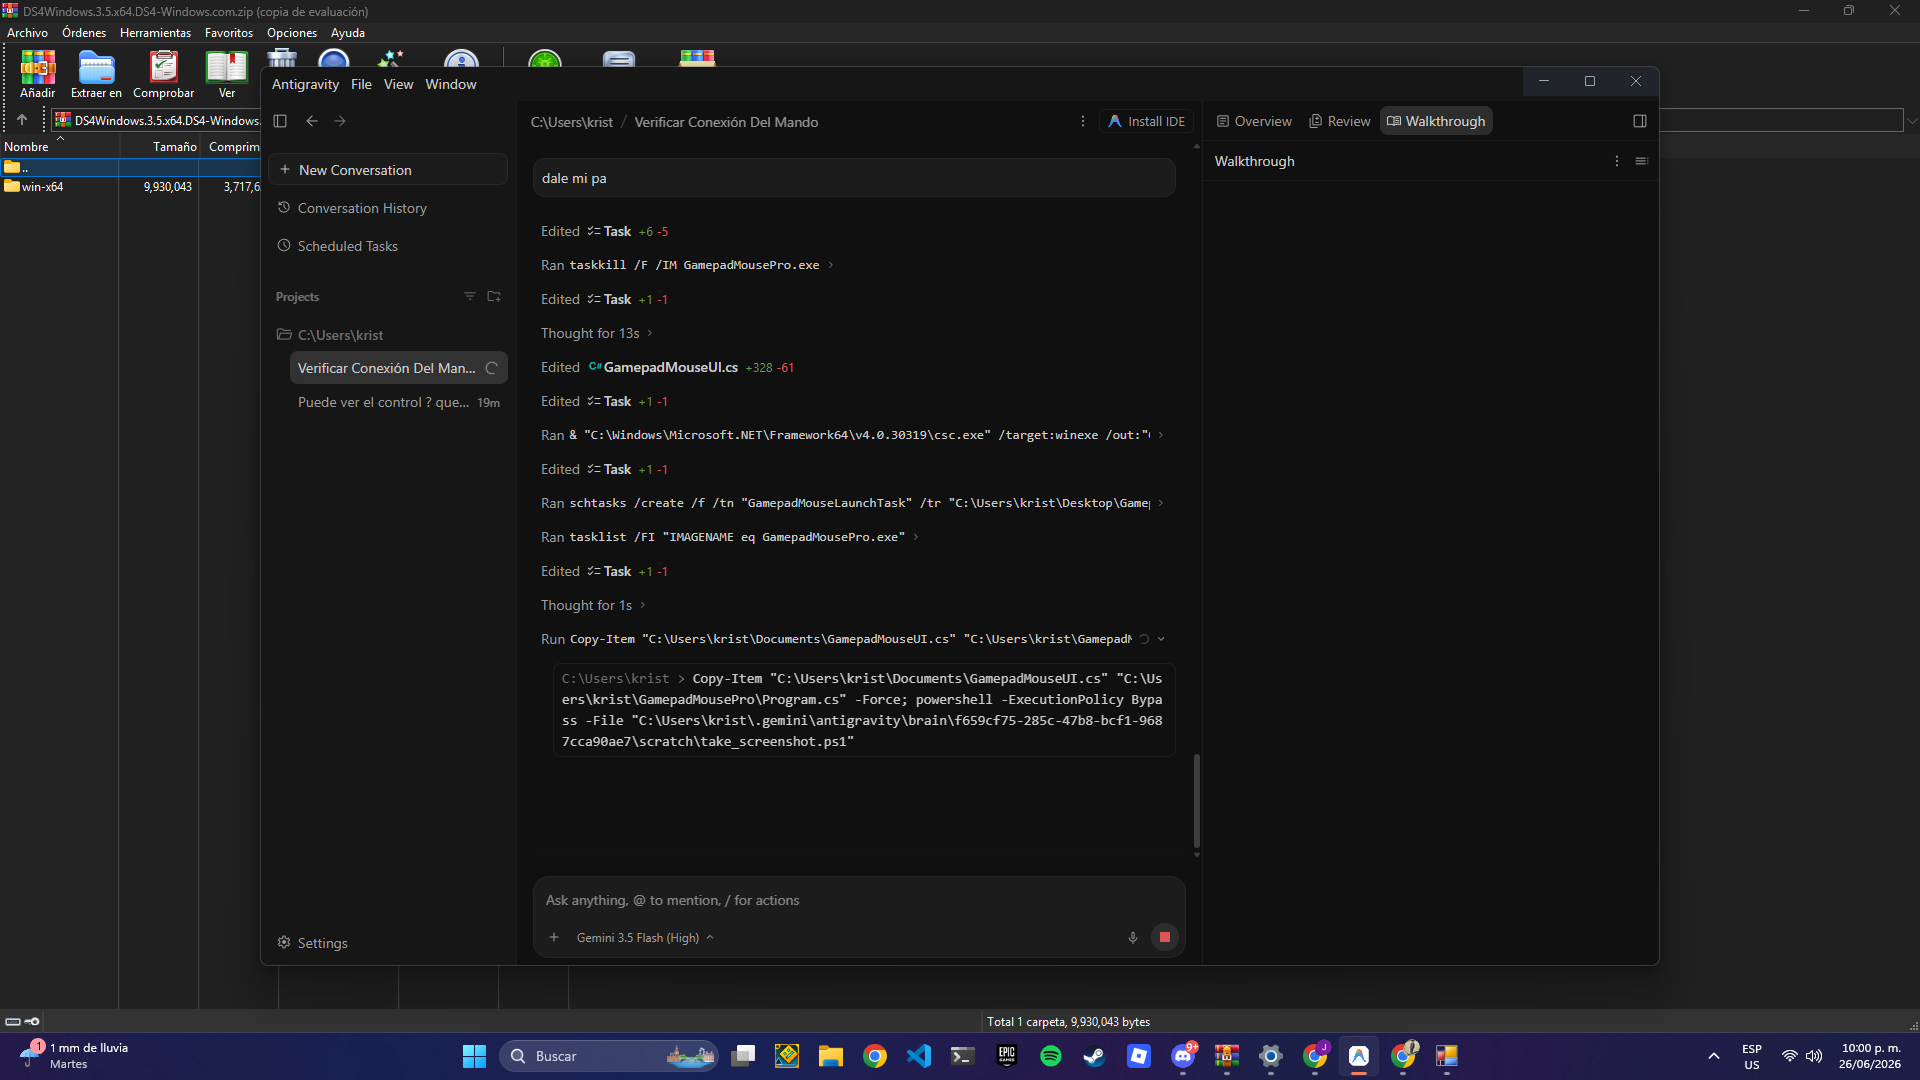
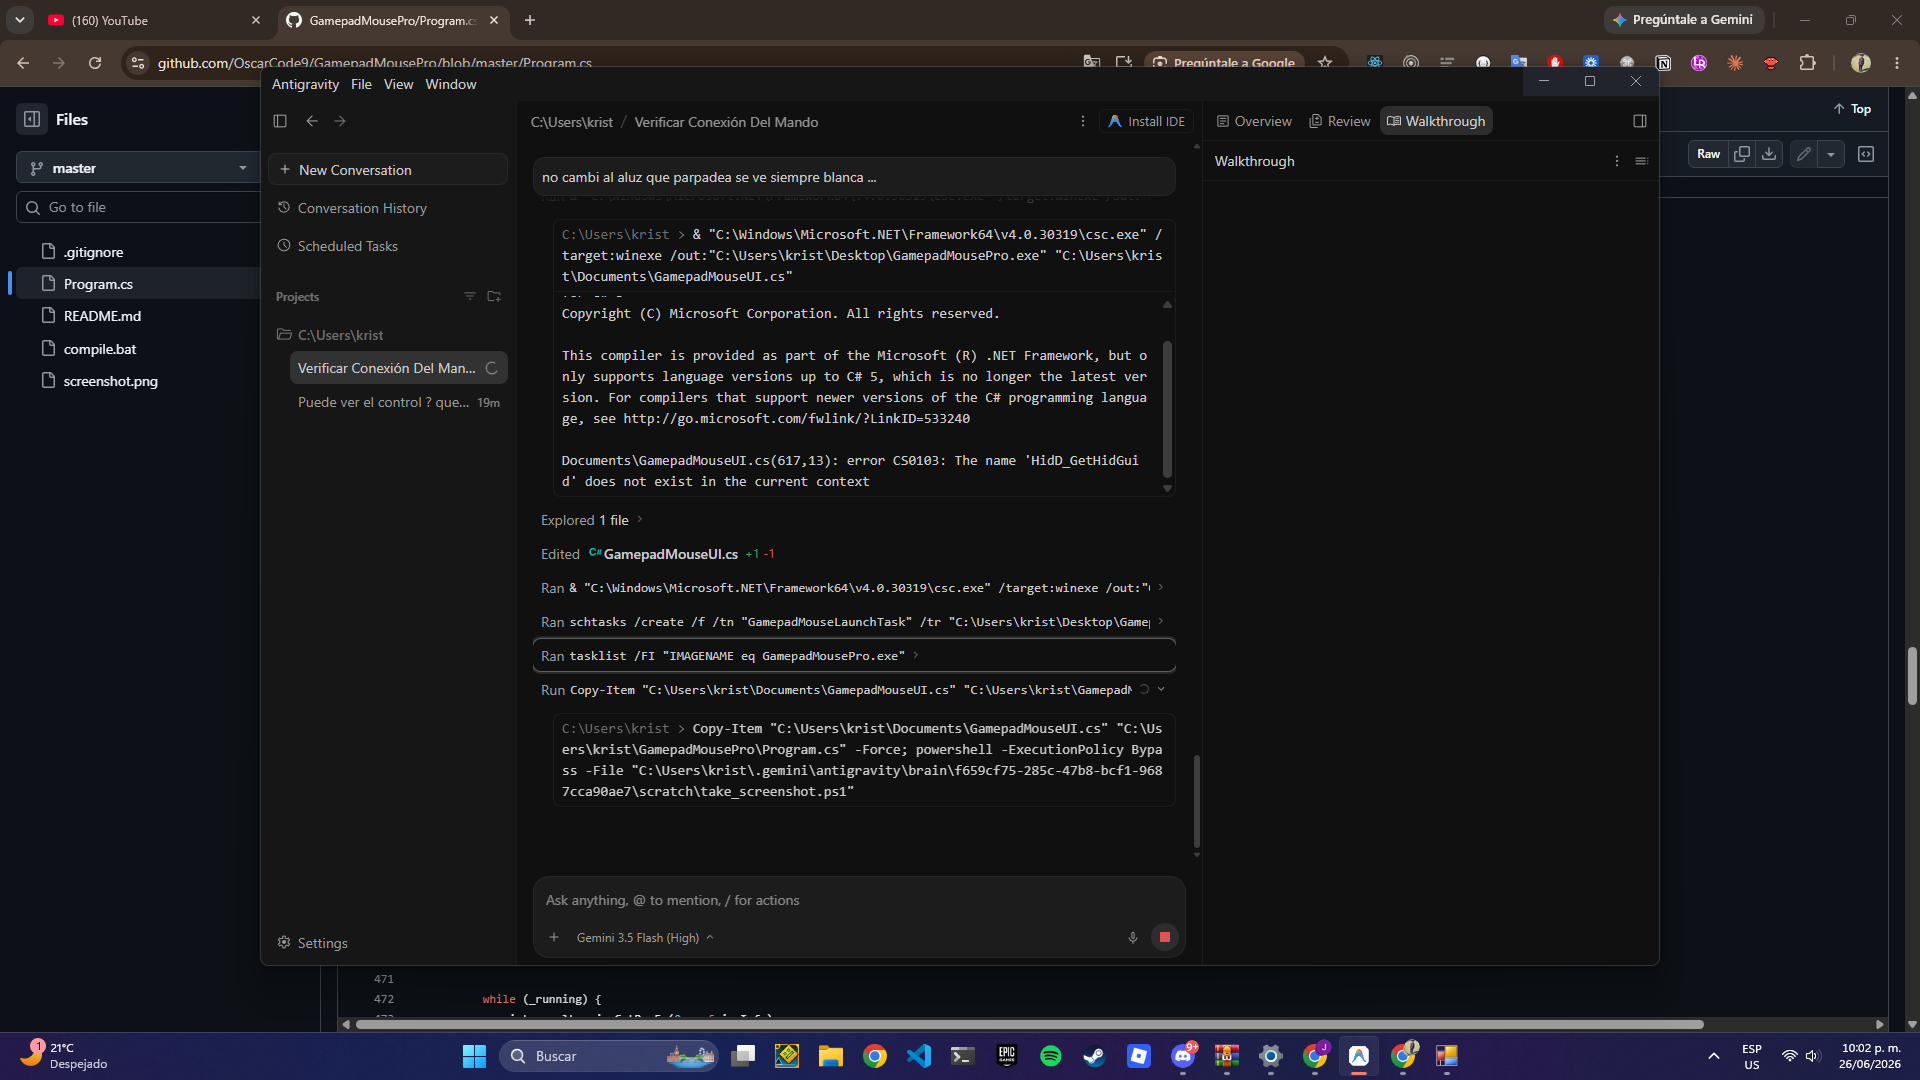
Fix: Correct LED byte offsets and P/Invoke method signature to enable proper LED color changes on Bluetooth connected DS4 controllers

diff --git a/Program.cs b/Program.cs
@@ -67,7 +67,7 @@ public class GamepadMouseForm : Form {
     public static extern int SendMessage(IntPtr hWnd, int Msg, int wParam, int lParam);
 
     [DllImport("hid.dll", CharSet = CharSet.Auto, SetLastError = true)]
-    public static extern void HidD_GetGuid(out Guid hidGuid);
+    public static extern void HidD_GetHidGuid(out Guid hidGuid);
 
     [DllImport("setupapi.dll", CharSet = CharSet.Auto, SetLastError = true)]
     public static extern IntPtr SetupDiGetClassDevs(ref Guid classGuid, string enumerator, IntPtr hwndParent, uint flags);
@@ -614,7 +614,7 @@ public class GamepadMouseForm : Form {
     private static void SetDS4Led(byte r, byte g, byte b) {
         try {
             Guid hidGuid;
-            HidD_GetGuid(out hidGuid);
+            HidD_GetHidGuid(out hidGuid);
             IntPtr hDevInfo = SetupDiGetClassDevs(ref hidGuid, null, IntPtr.Zero, DIGCF_PRESENT | DIGCF_DEVICEINTERFACE);
             if (hDevInfo == (IntPtr)(-1)) return;
 
@@ -661,12 +661,12 @@ public class GamepadMouseForm : Form {
         // USB Output Report (ID 0x05)
         byte[] usbBuf = new byte[32];
         usbBuf[0] = 0x05;
-        usbBuf[1] = 0xFF; // Update flag
-        usbBuf[4] = r;
-        usbBuf[5] = g;
-        usbBuf[6] = b;
-        usbBuf[7] = 0xFF; // Flash On Time (255 = solid)
-        usbBuf[8] = 0x00; // Flash Off Time (0 = solid)
+        usbBuf[1] = 0x06; // Enable LED and LED blink/flash
+        usbBuf[6] = r;
+        usbBuf[7] = g;
+        usbBuf[8] = b;
+        usbBuf[9] = 0x00;
+        usbBuf[10] = 0x00;
 
         uint written = 0;
         WriteFile(handle, usbBuf, (uint)usbBuf.Length, out written, IntPtr.Zero);
@@ -675,12 +675,14 @@ public class GamepadMouseForm : Form {
         byte[] btBuf = new byte[78];
         btBuf[0] = 0x11;
         btBuf[1] = 0xC0; // Flag
-        btBuf[3] = 0x0F; // Enable LED and rumble
-        btBuf[6] = r;
-        btBuf[7] = g;
-        btBuf[8] = b;
-        btBuf[9] = 0xFF;  // Solid light
-        btBuf[10] = 0x00; // No flash
+        btBuf[2] = 0x20; // Required constant
+        btBuf[3] = 0x06; // Enable LED and LED blink/flash
+        btBuf[4] = 0x04; // Required constant
+        btBuf[8] = r;
+        btBuf[9] = g;
+        btBuf[10] = b;
+        btBuf[11] = 0x00;
+        btBuf[12] = 0x00;
 
         // Calculate CRC32 for Bluetooth report
         byte[] crcCalcBuf = new byte[75];